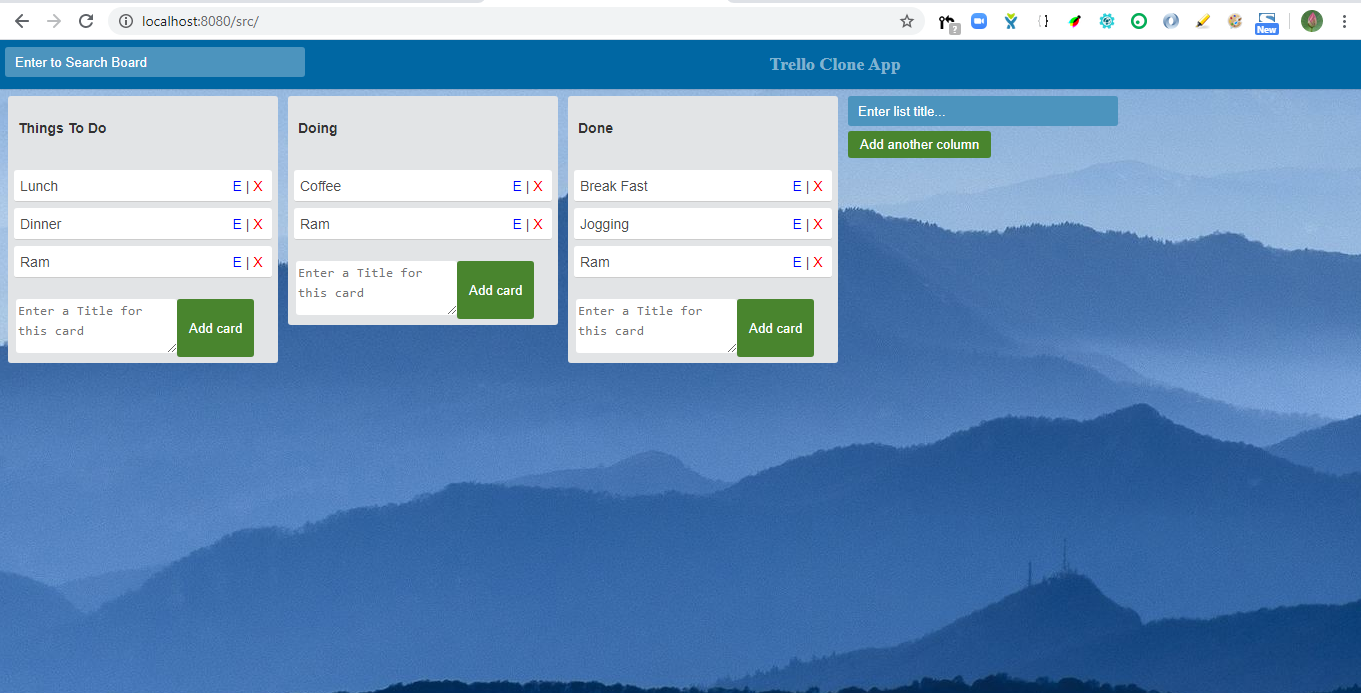
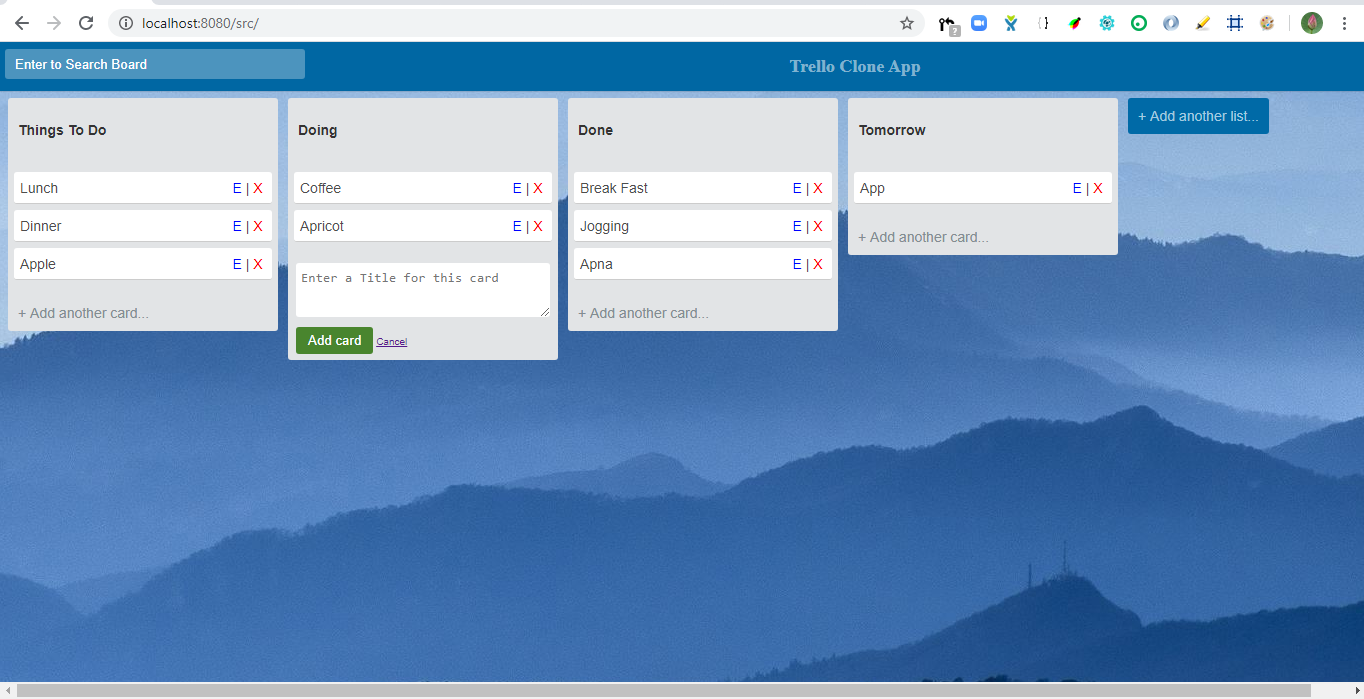
feat(search): Add Board Search

diff --git a/src/components/Column/Column.js b/src/components/Column/Column.js
@@ -1,100 +1,92 @@
 import BaseComponent from '../BaseComponent/BaseComponent.js';
 import { getUniqueId } from '../../Utiltities.js';
+import * as API from '../../Api.js';
 
 class Column extends BaseComponent {
   constructor() {
-    super();
+    super({
+      cardList: [],
+      searchFor: ''
+    });
   }
 
   onMount() {
     this.getCard();
-    this.$app.addEventListener('cardCreation', e => this.addCard(e));
+    this.$app.addEventListener('onNewCardAdded', e => this.addToCardList(e));
+    this.$app.addEventListener('onBoardSearch', e => this.boardSearch(e));
   }
 
-  async addCard(e) {
-    const id = this.getAttribute('id');
-    const {
-      columnId,
-      value,
-    } = e.detail;
-
-    if (columnId !== id) {
-      return;
-    }
-
-    const {
-      apiEndpoint,
-      cardList
-    } = this.state;
-
-    const newCardItem = {
-      "id": getUniqueId(),
-      "title": value,
-      "description": value,
-      "columnId": id,
-    };
-    const newCard = await fetch(`${apiEndpoint}/cards`, {
-      method: 'POST',
-      body: JSON.stringify(newCardItem),
-      headers: {
-        'Content-Type': 'application/json'
-      }
+  boardSearch(e) {
+    this.setState({
+      searchFor: e.detail,
     });
-    const newCardResponse = await newCard.json();
+  }
 
-    if (!newCardResponse.id) {
+  addToCardList(e) {
+    const columnId = this.getAttribute('id');
+    
+    if (columnId !== e.detail.columnId) {
       return;
     }
-    const card = [...cardList, newCardItem];
 
+    const { cardList = [] } = this.state;
+    const card = [...cardList, e.detail];
     this.setState({ cardList: card });
   }
 
   async getCard() {
     const { apiEndpoint } = this.state;
-    const data = await fetch(`${apiEndpoint}/cards`);
-    const response = await data.json();
-    this.setState({ cardList: response });
+    const cardListResponse = await API.get(`${apiEndpoint}/cards`);
+    this.setState({ cardList: cardListResponse });
   }
 
   getCardList() {
-    const id = this.getAttribute('id');
-    const { cardList = [] } = this.state;
+    const columnId = this.getAttribute('id');
+    const { cardList = [], searchFor = '' } = this.state;
 
-    const data = cardList.filter(data => data.columnId === id);
-    const cards = (data || []).map(card => {
-      const {
-        id,
-        title,
-        columnId,
-      } = card;
-      return `
-        <li>
-          <app-card
-            id="${id}"
-            name="${title}"
-            column="${columnId}"
-          ></app-cards>
-        </li>
-      `;
-    });
+    const columnCards = cardList
+      .filter(card => {
+        const isColumnMatched = (card.columnId === columnId);
+
+        if (!searchFor) {
+          return isColumnMatched;
+        }
+
+        return isColumnMatched && card.title.search(searchFor) >= 0;
+      })
+      .map(card => {
+        const {
+          id,
+          title,
+          columnId,
+        } = card;
+        return `
+          <li>
+            <app-card
+              id="${id}"
+              name="${title}"
+              column="${columnId}"
+            ></app-cards>
+          </li>
+        `;
+      });
 
     return `
       <ul class="list-items">
-        ${cards.join('\n')}
+        ${columnCards.join('\n')}
       </ul>
     `;
   }
 
   render() {
     const title = this.getAttribute('title');
-    const id = this.getAttribute('id');
+    const columnId = this.getAttribute('id');
 
     this.innerHTML = `
       <div class="list" ondrop="drop(event)" ondragover="allowDrop(event)">
         <h3 class="list-title">${title}</h3> 
         ${this.getCardList()}
-        <add-card-form column-id="${id}"></add-card-form>
+        <add-card-form column-id="${columnId}"></add-card-form>
       <div>
     `;
   }

diff --git a/src/components/Board/Board.js b/src/components/Board/Board.js
@@ -11,40 +11,12 @@ class Board extends BaseComponent {
   }
 
   onMount() {
-    this.$app.addEventListener('columnCreation', this.addColumn.bind(this));
+    this.$app.addEventListener('onNewColumnAdded', e => this.addToBoard(e));
   }
 
-  disconnectedCallback() { }
-
-  async addColumn(e) {
-    const { title } = e.detail;
-    const {
-      apiEndpoint,
-      columnList,
-    } = this.state;
-
-    const newColumnItem = {
-      "id": getUniqueId(),
-      "title": title,
-      "boardId": "1",
-    };
-    
-    const newColumn = await fetch(`${apiEndpoint}/columns`, {
-      method: 'POST',
-      body: JSON.stringify(newColumnItem),
-      headers: {
-        'Content-Type': 'application/json'
-      }
-    });
-    const newColumnResponse = await newColumn.json();
-
-    if (!newColumnResponse.id) {
-      return;
-    }
-
-    const columns = [...columnList, newColumnItem];
-    console.log('columns: ', columns);
-
+  addToBoard(e) {
+    const { columnList = [] } = this.state;
+    const columns = [...columnList, e.detail];
     this.setState({ columnList: columns });
   }
 

diff --git a/src/components/Header/Header.js b/src/components/Header/Header.js
@@ -5,6 +5,22 @@ class Header extends BaseComponent {
     super();
   }
 
+  onMount() {
+    this.$keyword = this.querySelector('input.board-search-input');
+  
+    if (this.$keyword) {
+      this.$keyword.addEventListener('search', (e) => this.setBoardSearchKeyword(e));
+    }
+  }
+
+  setBoardSearchKeyword(e) {
+    this.$app.dispatchEvent(
+      new CustomEvent('onBoardSearch', {
+        detail: e.target.value
+      })
+    );
+  }
+
   render() {
     const title = this.getAttribute('title');
 

diff --git a/src/components/Card/Card.js b/src/components/Card/Card.js
@@ -33,8 +33,8 @@ class Card extends BaseComponent {
       apiEndpoint,
     } = this.state;
 
-    const deleteCard = await fetch(`${apiEndpoint}/cards/${id}`, {
-      method: 'DELETE',
+    const deleteCard = await fetch(`${apiEndpoint}/cards/${id}/`, {
+      method: 'PATCH',
       headers: {
         'Content-Type': 'application/json'
       }
